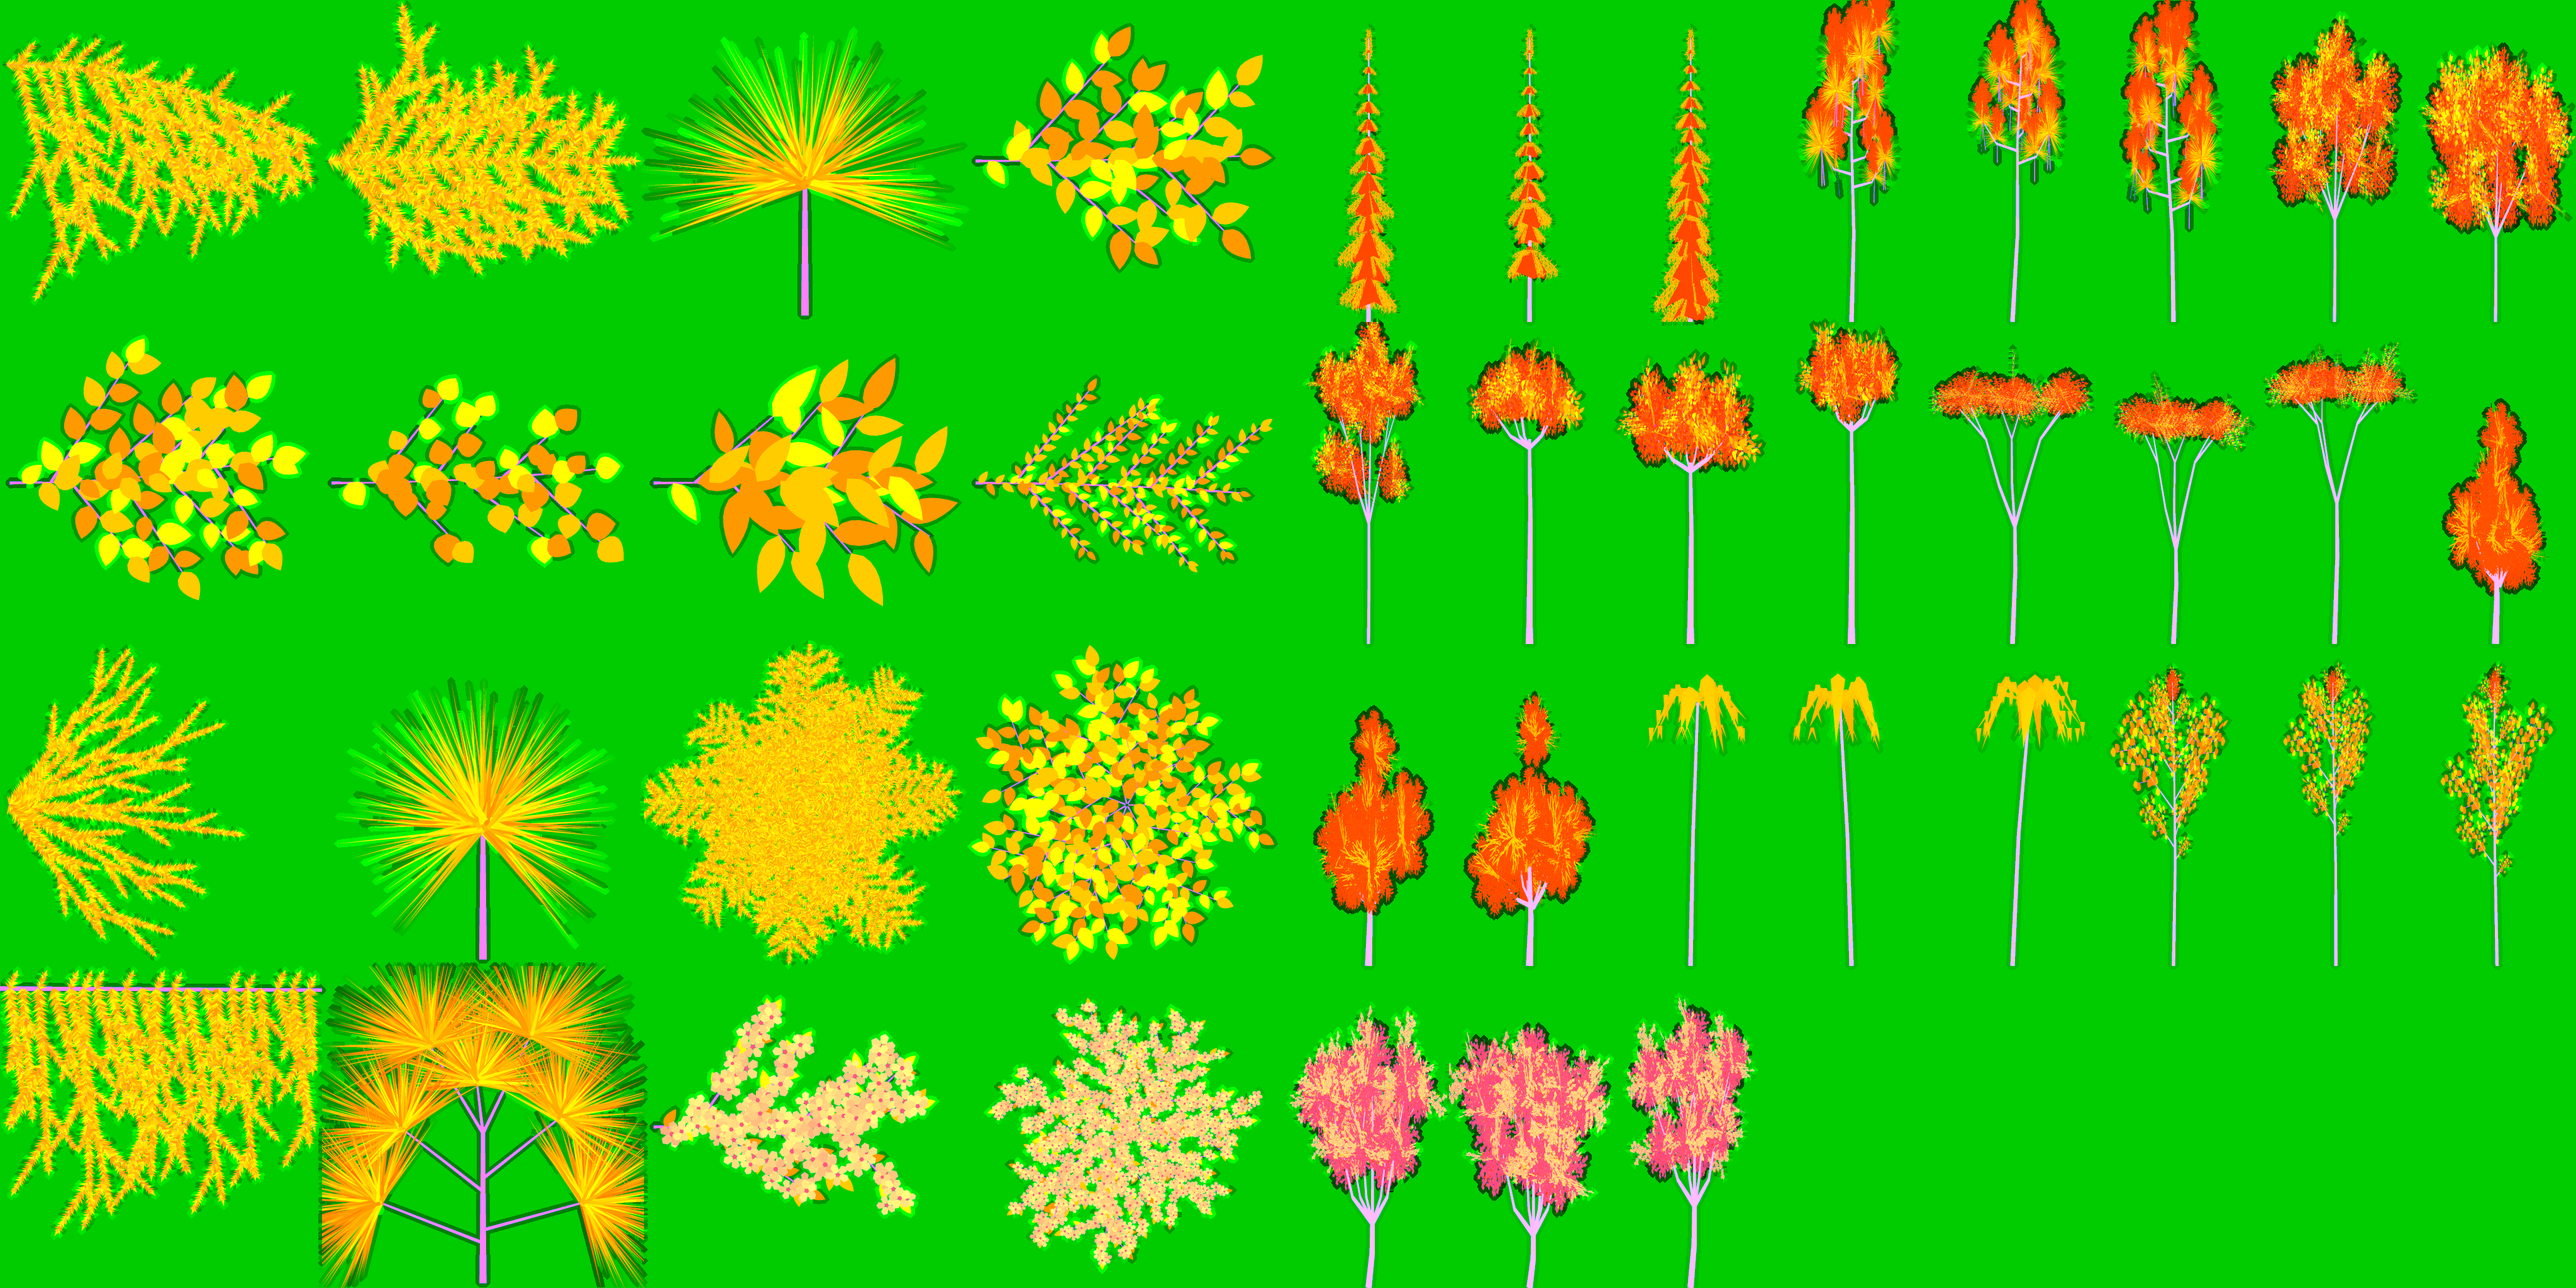
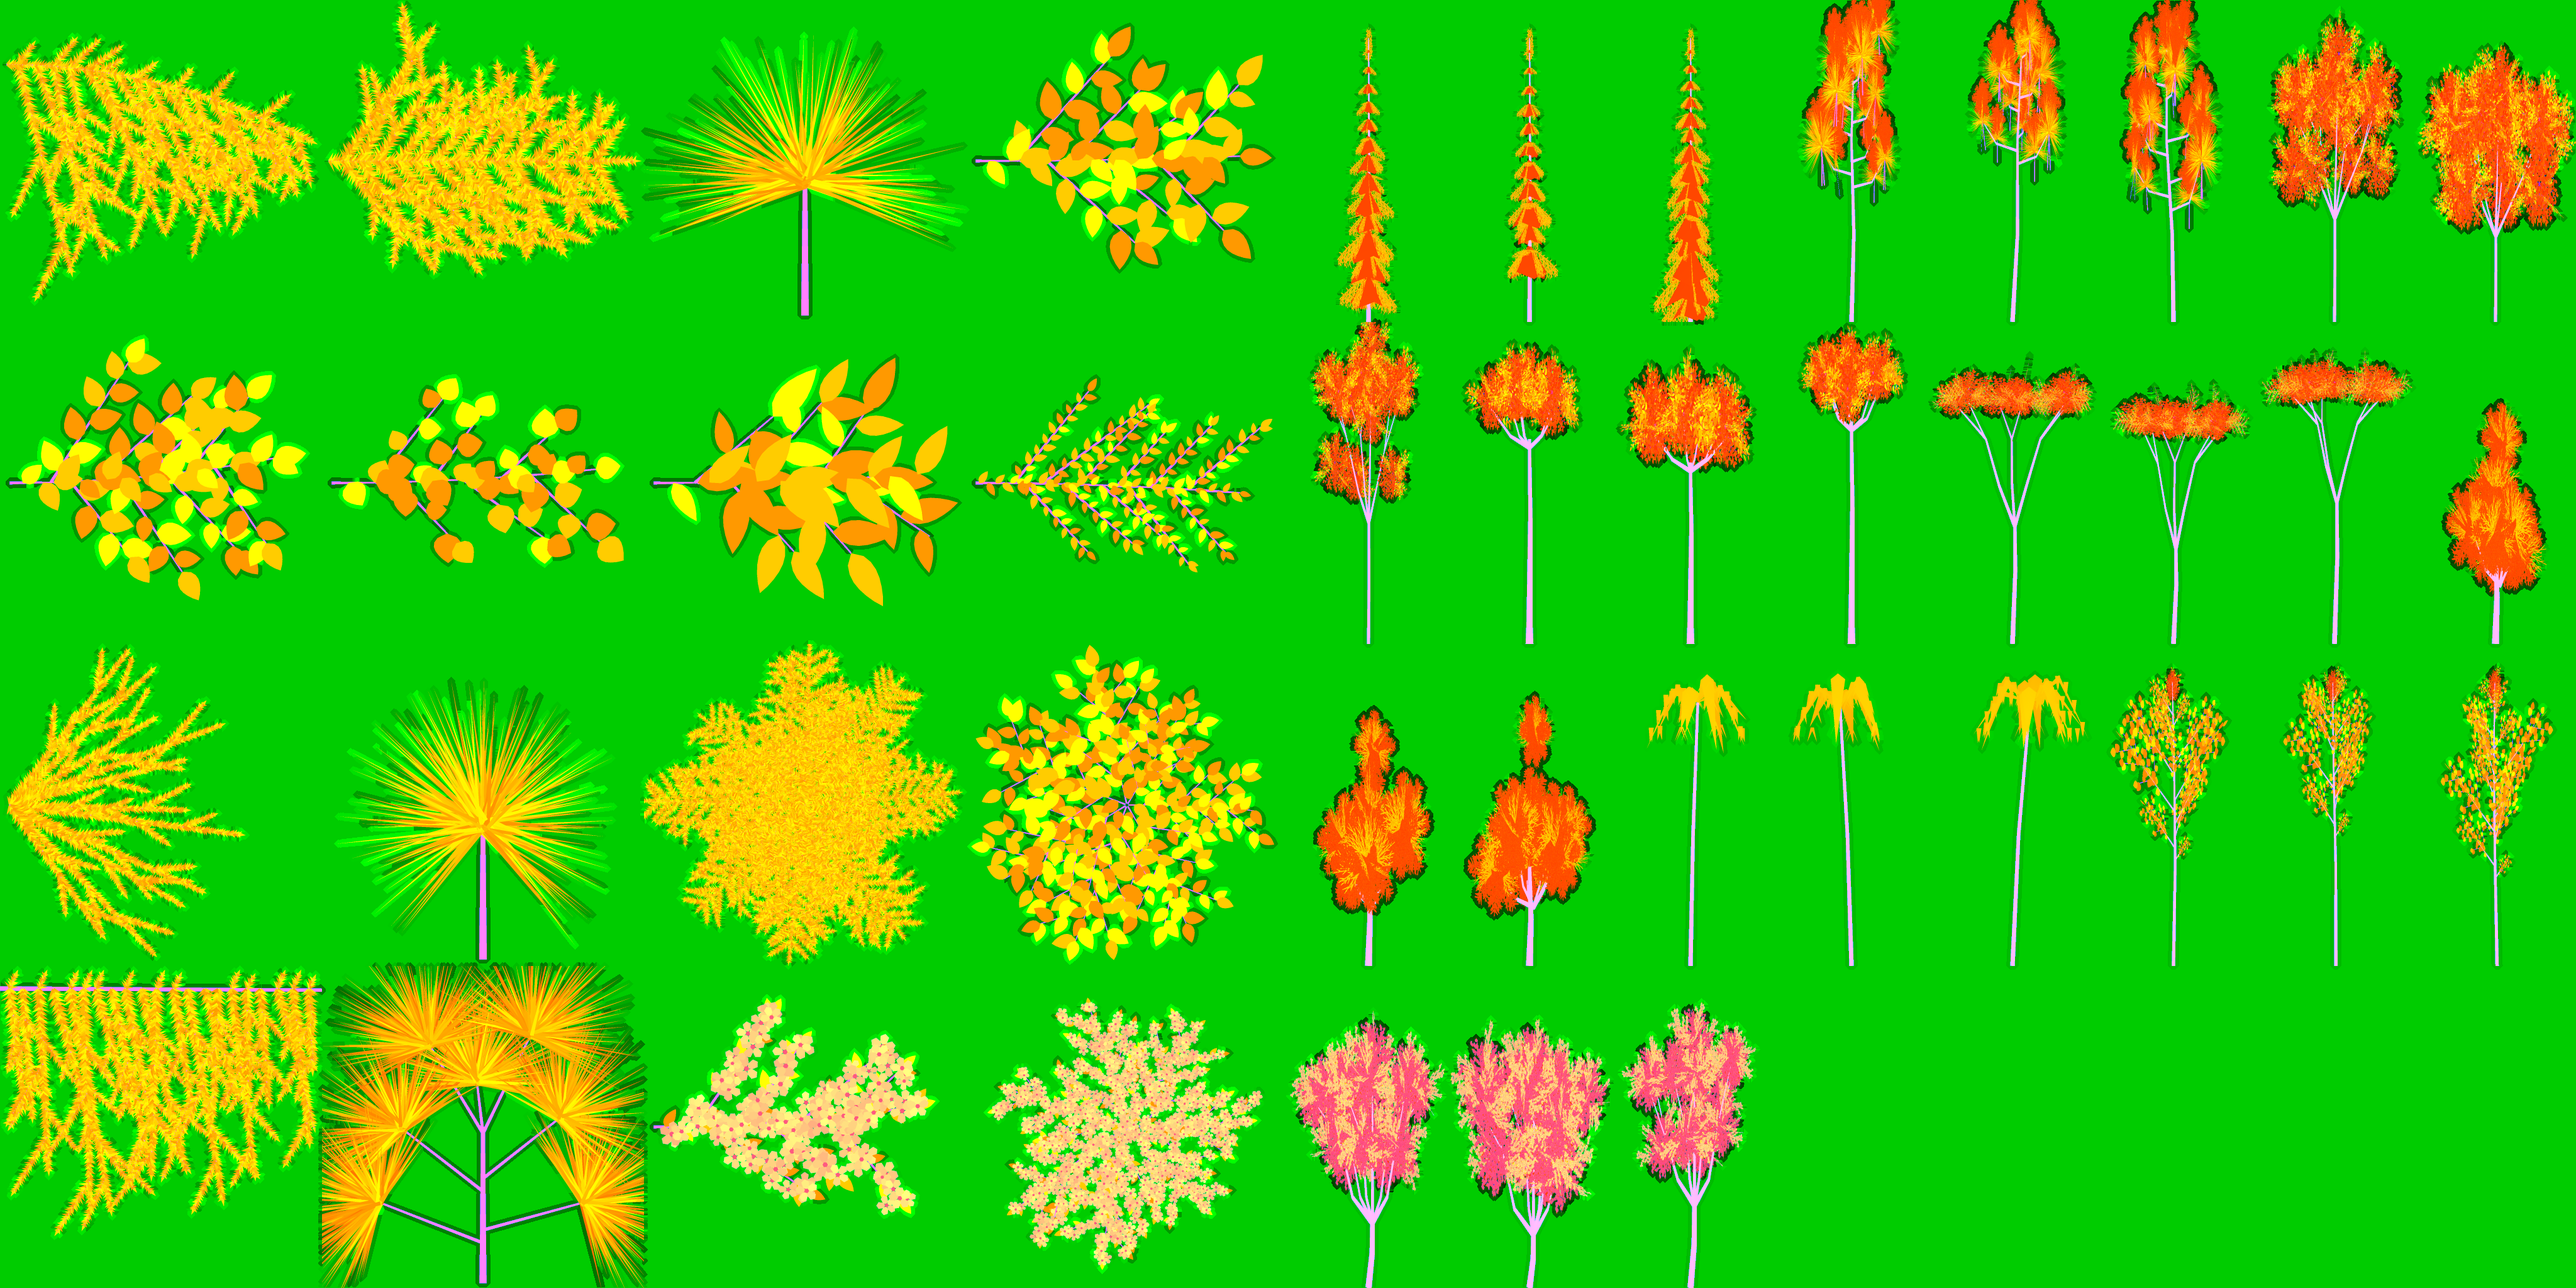
Trees refined: the middle distance in smaller sprays, the flowering trees in the opening place's parkland, a first report
Claude-Session: https://claude.ai/code/session_01XG1DZ6z4HnMC6bjsyXexux

diff --git a/src/life/treeGeometry.js b/src/life/treeGeometry.js
@@ -133,8 +133,10 @@ class Shape {
     this.heart(cx, cy + r * 0.12, cz, r * 0.95, r * 0.8 * Math.min(1, flat + 0.25), rose);
     for (let k = 0; k < n; k++) {
       const u = low + (1 - low) * (k + R()) / n, a = k * 2.4 + R() * 1.2, h = Math.sqrt(Math.max(0, 1 - u * u));
-      const d = norm([Math.cos(a) * h, u * flat, Math.sin(a) * h]), e = norm(cross(d, norm([R() - 0.5, R() - 0.5, R() - 0.5]))), len = r * (1.15 + 0.5 * R());
-      this.card([cx - d[0] * r * 0.12, cy - d[1] * r * 0.12, cz - d[2] * r * 0.12], d, e, len, len * 0.9, cells[k % cells.length], [cx, cy, cz]);
+      // (sprays two thirds the size they were here and twice as many, standing a little out from
+      // the middle: the leaves are nearer the size they have on the nearest trees, for fewer pixels)
+      const d = norm([Math.cos(a) * h, u * flat, Math.sin(a) * h]), e = norm(cross(d, norm([R() - 0.5, R() - 0.5, R() - 0.5]))), len = r * (0.82 + 0.3 * R());
+      this.card([cx + d[0] * r * 0.2, cy + d[1] * r * 0.2 * flat, cz + d[2] * r * 0.2], d, e, len, len * 0.9, cells[k % cells.length], [cx, cy, cz]);
     }
   }
 
@@ -312,7 +314,7 @@ export function makeTreeGeometries() {
   // at the limbs' ends. Close by each is twigs with small sprays (`size`: how long a spray
   // is, in tree heights); at the middle distance a few large ones.
   const bunches = (s, L, list, n, cells, flat = 1, low = -0.45, size = 0.09, rose = SPRAYS.roseL) => {
-    for (const [x, y, z, r, from] of list) { if (s.q === 2) s.twigs(x, y, z, r, Math.max(5, Math.round(n * 1.2)), cells, L, Math.min(size, r * 0.7), flat, low, from, rose); else s.bunch(x, y, z, r, Math.ceil(n * 0.55), cells, L, flat, low, rose); }
+    for (const [x, y, z, r, from] of list) { if (s.q === 2) s.twigs(x, y, z, r, Math.max(5, Math.round(n * 1.2)), cells, L, Math.min(size, r * 0.7), flat, low, from, rose); else s.bunch(x, y, z, r, Math.ceil(n * 1.1), cells, L, flat, low, rose); }
   };
 
   // 2 broadleaf: a trunk that parts into limbs, each limb into two, twigs of leaves all round

diff --git a/src/worlds/haven.js b/src/worlds/haven.js
@@ -123,7 +123,7 @@ export default {
       { classes: [7, 10, 16, 12], upTo: 0.5, mix: [[2, 2], [1, 2], [9, 2], [0, 1], [64, 1.4], [65, 1.2]] },   // meadows and open dry country: juniper, pinyon, sage; the flowering trees stand here
       { classes: [7, 10, 16, 12], mix: [[2, 2], [1, 2], [9, 2], [0, 1]] },
       { classes: [8, 9], upTo: 0.55, mix: [[0, 5], [2, 1], [5, 0.5], [64, 1.3], [65, 0.5]] },   // parkland and wood edges: ponderosa, cherry
-      { classes: [8, 9], mix: [[61, 2], [4, 2], [27, 1], [5, 1]] },
+      { classes: [8, 9], mix: [[61, 2], [4, 2], [27, 1], [5, 1], [64, 0.8], [65, 0.4]] },   // high parkland (the opening place): lodgepole, spruce, stone pine, aspen, and the flowering trees among them
       { upTo: 0.35, mix: [[0, 3], [3, 2], [5, 0.4]] },                              // forest, low: ponderosa, Douglas fir
       { upTo: 0.7, mix: [[3, 3], [61, 2], [4, 1], [5, 0.6]] },                      // middle: Douglas fir, lodgepole
       { mix: [[4, 3], [27, 2], [61, 1]] },                                          // high: spruce, stone pine

diff --git a/docs/briefs/trees-refined-report.md b/docs/briefs/trees-refined-report.md
@@ -1,0 +1,118 @@
+# Report: the trees refined, blossom and petals
+
+Branch `ccr-aa39490a-trees-refined`. Brief: `trees-refined.md` beside this file.
+Pictures: `docs/shots/trees-refined/`. Written as the work went; the newest state is at
+the top of each section.
+
+## What a tree was made of, and what it is made of now
+
+A phone 1 440 pixels tall through the walker's 60 degree lens shows a metre at 3 m as
+416 pixels, at 10 m as 125, at 30 m as 42 (at the governor's floor, 36 % of the pixels,
+six tenths of that).
+
+**Before** (build 6ac24ff):
+- *Foliage*: cards 3 to 4.5 m long, each showing one spray of 256 texels: **60 texels a
+  metre**. A texel was 7 pixels wide at 3 m, 2 at 10 m, and matched the screen only from
+  30 m. The sprays themselves were drawn at twig scale (a twig with forty leaves, a bough
+  with its needled twigs) and then stretched over four metres: an oak's leaf was half a
+  metre long, a fir's needle 20 cm long and 6 cm wide. That is the "no level of detail":
+  not too little drawn, but what was drawn shown four times too large and blurred.
+- *Skeleton*: a fir was a trunk and nothing else in wood (0 limbs; its boughs were only
+  cards); a pine a trunk and 22 three-sided tubes; an oak a trunk and 13 tubes. No twigs
+  anywhere. No flare at the root. 150 to 470 triangles a close tree.
+- *Bark*: one rule, dark furrows by the angle round the tree's own axis (wrong on any limb
+  that is not upright), fading out by 60 m; dark rings on pale trunks.
+- *The dark inside*: three crossed cards of a rosette in every bunch.
+- Distances: the close mesh to 42 m, the near mesh to 115 m, then two crossed cards.
+
+**Now**:
+- *Foliage*: the same kind of spray, drawn finer (needles and leaves two thirds the size,
+  twiglets off the twigs), at 512 texels, on cards **1 to 1.9 m** long: 270 to 500
+  texels a metre, a texel a pixel at 3 m. A leaf is 13 to 17 cm, a needle 5 cm by 1.5.
+  New sprays: what hangs under a fir's bough, a pine's branch end with its seven tufts, a
+  twig in flower, a crown in flower from above.
+- *Skeleton*, close mesh: the trunk is eight-sided through seven rings with a flare at
+  the root that bulges over its roots; every limb, branch and twig down to the one a
+  spray sits on is a tapering tube with round normals (a fir: 80 to 100 boughs, each a
+  sagging branch with fronds off both sides swept forward, an end frond and the curtain
+  of twigs hanging under it; a pine: 11 branches, 22 heads, each head 5 to 9 twigs
+  with a branch end's tufts on crossed cards; an oak: 4 limbs, 8 forks, 16 bunches of 8
+  twigs with five sprays a twig). 1 500 to 4 100 triangles a close tree.
+- *Bark*: by rule on each tube's own coordinates (round it in furrows, along it in
+  metres), so it follows every limb: furrowed with the ridges broken into lengths (fir,
+  spruce, oak), large plates each its own tone with dark cracks (red trunks: pine), smooth
+  with bands part of the way round and black scars (pale trunks: aspen, birch). No new
+  sampler.
+- *The dark inside*: two crossed rosette cards in a bunch (three at the middle distance),
+  and the sprays nearest the middle of a bunch drawn dark.
+- Distances: **close to 20 m, near to 60 m**, then the cards. The atlas is 4096 x 2048
+  (2.7 MB; sprays 512, whole trees 256 x 512: they were 256 and 160 x 320), its mip maps
+  made in JavaScript, tone and kind averaged over covered texels only (no grey fringe).
+
+## What was tried and taken back
+
+- **A dark lump of plain faces as a bunch's heart** (24 triangles, nothing cut out, drawn
+  first so that the cards behind it are never shaded). Cheaper in layers and it does stop
+  the eye going through a crown, but it showed as a dark hexagon from below and from the
+  side at every size tried (62 %, 40 % and 27 % of the bunch's radius), worst on the tree
+  in flower. Back to crossed rosette cards (a cut edge), fewer of them. The firs' skirts
+  (plain cones under each tier) stay, smaller on the close mesh.
+- Sprays at 1 m and smaller on the oak (leaves 10 cm): a lace with no mass. 1.3 to
+  1.6 m with a dark inside holds together.
+
+## Numbers
+
+(the forest cost view, 880 x 412; `node scripts/overdraw.mjs --part trees,farForest`)
+
+| | triangles handed over | layers a pixel, whole picture | where the part is | most |
+|---|---|---|---|---|
+| near trees, before | | | | |
+| near trees, after | | | | |
+| far forest, before | | | | |
+| far forest, after | | | | |
+
+## The governor's steps
+
+- `tree-leaves` (was: every leaf on the nearest trees): off, no tree gets the close mesh;
+  the nearest are drawn as the near mesh (same skeleton, a few large sprays). Thins.
+- `trees-far`: off, the close mesh reaches 13 m and the near mesh 40 m (two thirds).
+- `tree-shadows`: off, trees drawn as cards (now beyond 60 m, was beyond 115 m) cast no
+  shadow. It takes more shadow away than it did, all of it far from the eye.
+- `leaves`: the falling leaves off as before; the petals thinned to a third, never off.
+
+## Behaviour changes (for the checkpoint message)
+
+- Trees near the eye are a different make (see above); the close mesh ends at 20 m (was
+  42) and the near mesh at 60 m (was 115).
+- A limb now sways with its leaves (one rule for wood and leaf by height and distance
+  from the trunk; before, leaves moved two and a half times as far as the limb they sat
+  on). A spray flutters at its tip and is held at its root.
+- Winter on trees that drop their leaves: a spray's leaves are left out leaf by leaf and
+  its twigs stay (before, the cards shrank to the trunk). The far cards keep their leaves
+  as before.
+- Haven has two flowering trees (species 64 wild cherry, 65 blackthorn; shape 8
+  `BLOSSOM`), in its meadows, parkland, by water, and in the opening place's parkland
+  (about one tree in six there). In flower from day 62 to 118 (cherry) and 55 to 105
+  (thorn) of the northern year, half a year later in the south: the opening date (22
+  September, 48 degrees south) is three weeks into it. Out of flower they are small
+  round-leaved trees.
+- Petals: up to eight flowering trees within 90 m let petals go (640 falling, 320 lying
+  on the drawn ground under and down the wind of each tree).
+- The trees' picture is 2.7 MB (was 0.76) and 44 MB on the GPU with its mip maps (was 11).
+
+## For the owning session
+
+- `src/life/farForest.js`, two lines: a petal is 0.5 in the picture's blue, so wood is
+  now `cut.b > 0.75`; and a tree in flower gets its leaf colour blended to its petals'
+  (`inFlower`), since the far shader has no room for a petal colour of its own.
+- Tree meshes: `aSway` is a vec2 (sway, flutter); wood has `aUv.x < -1.5` (bark
+  coordinates); instances have `iE` (petal colour, how far in flower; -1: never flowers).
+- **Not done, needs the ground** (`terrainMaterial.js` is not mine): the lying petals are
+  points put on the drawn ground from the page (eight a frame, `terrain.drawnHeight`).
+  A carpet of petals under a flowering tree would be better drawn by the ground itself:
+  a uniform list of up to eight (foot position, crown radius, colour, amount), and a
+  speckle of the colour within 1.3 radii, down the wind.
+
+## Known problems, most visible first
+
+(filled in at the end)
